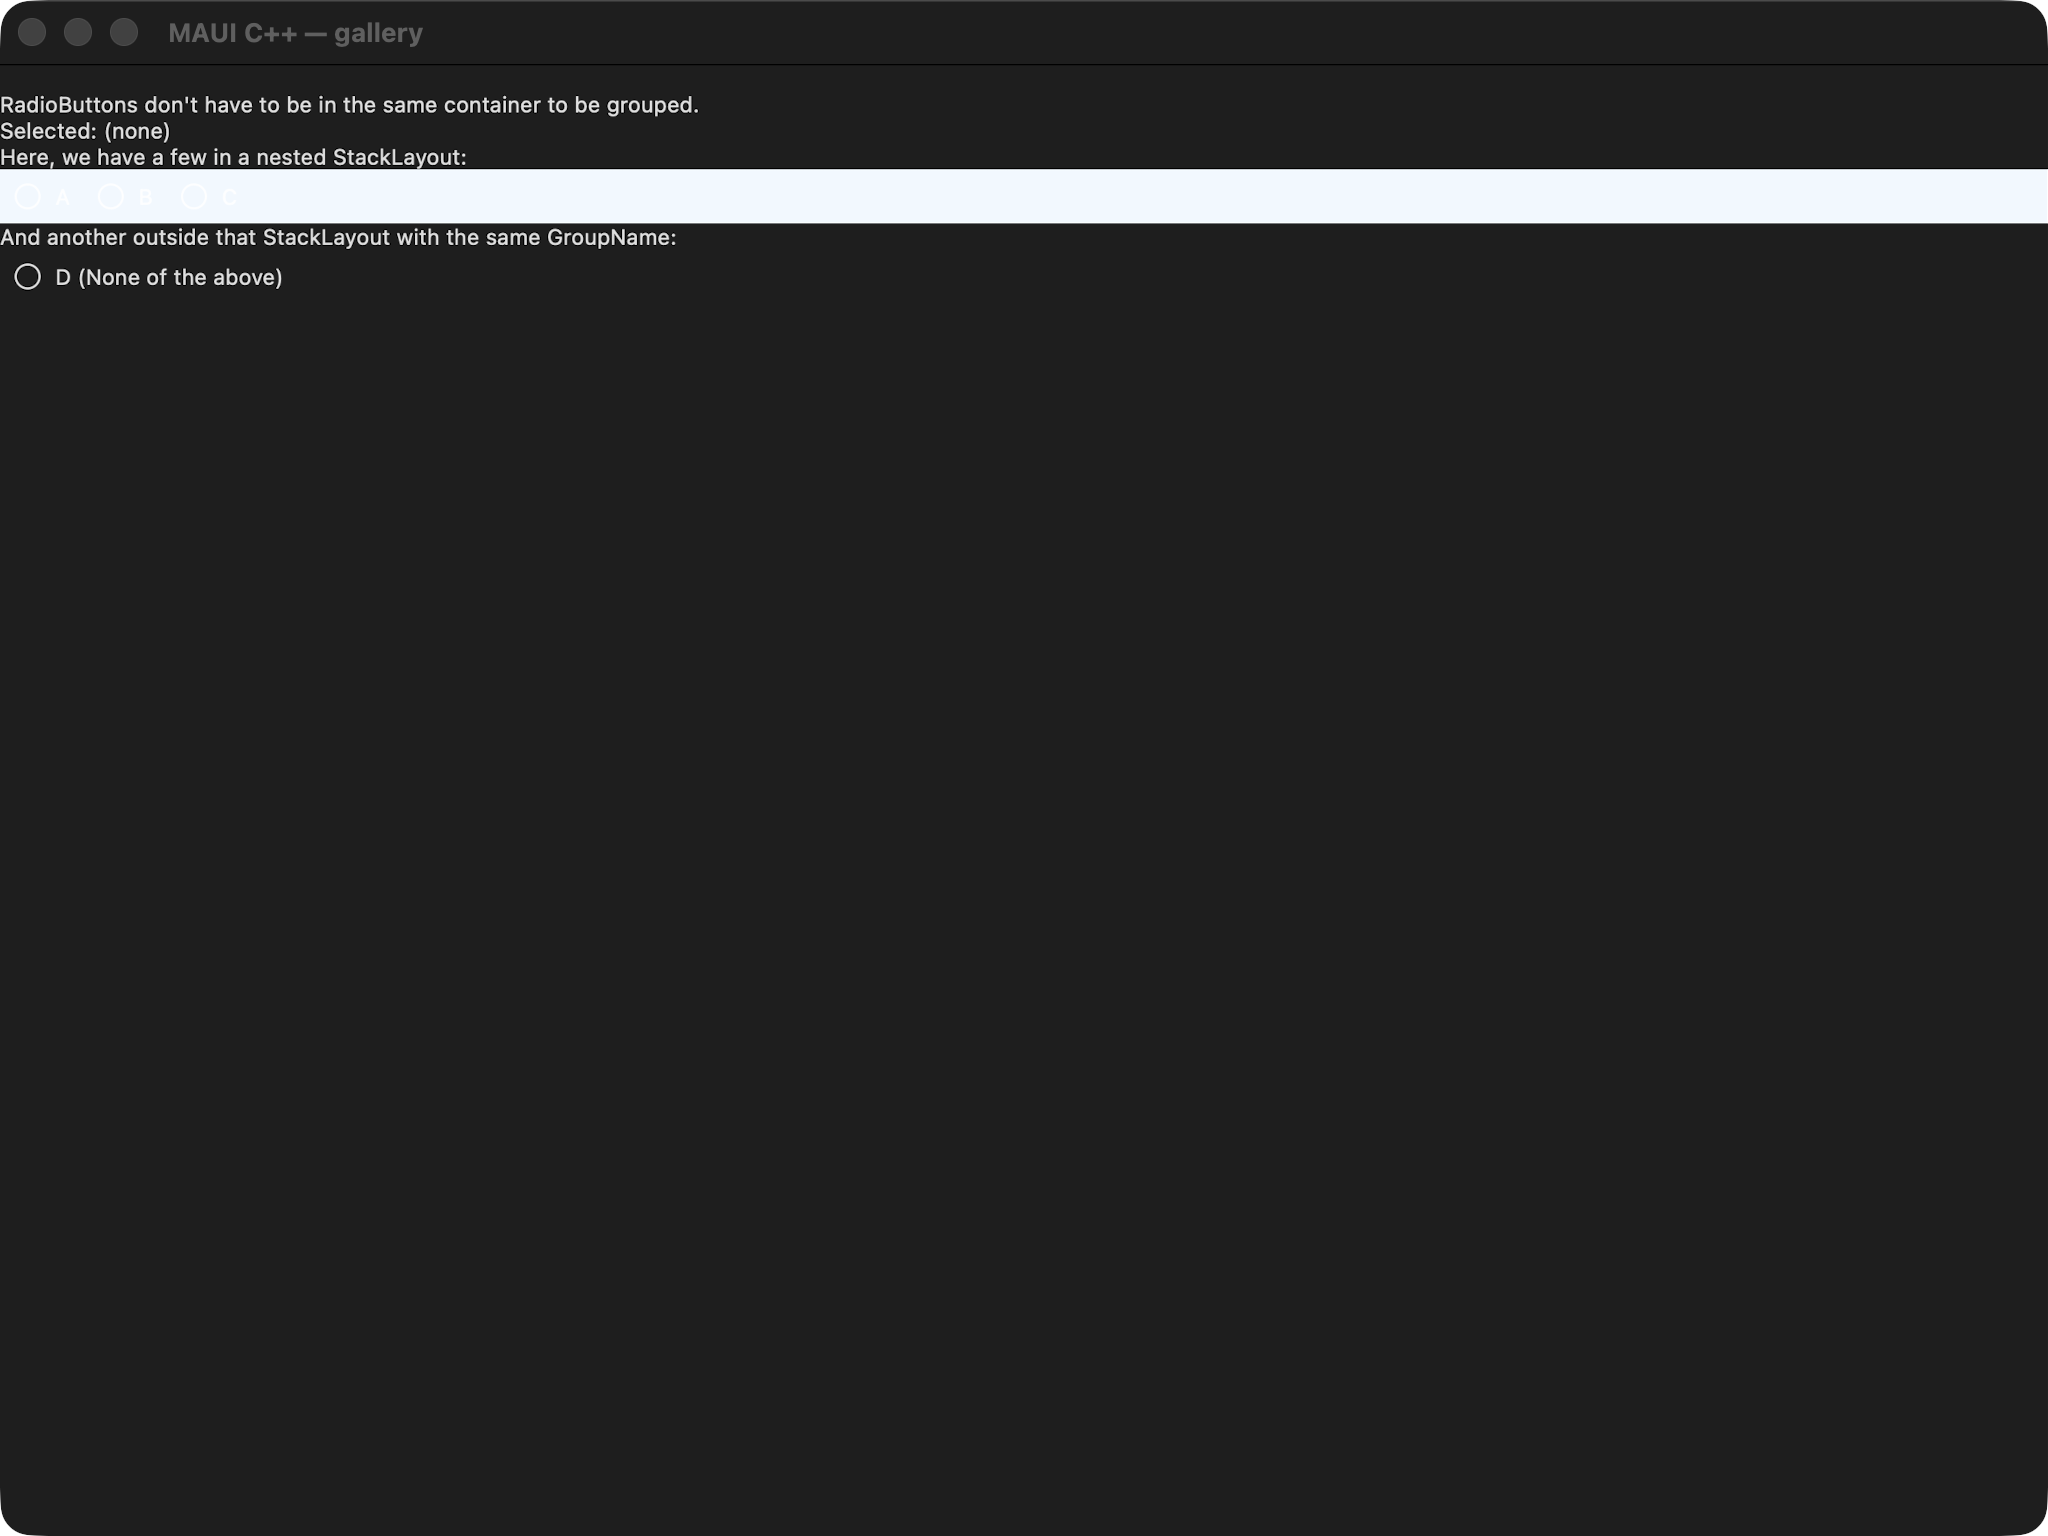
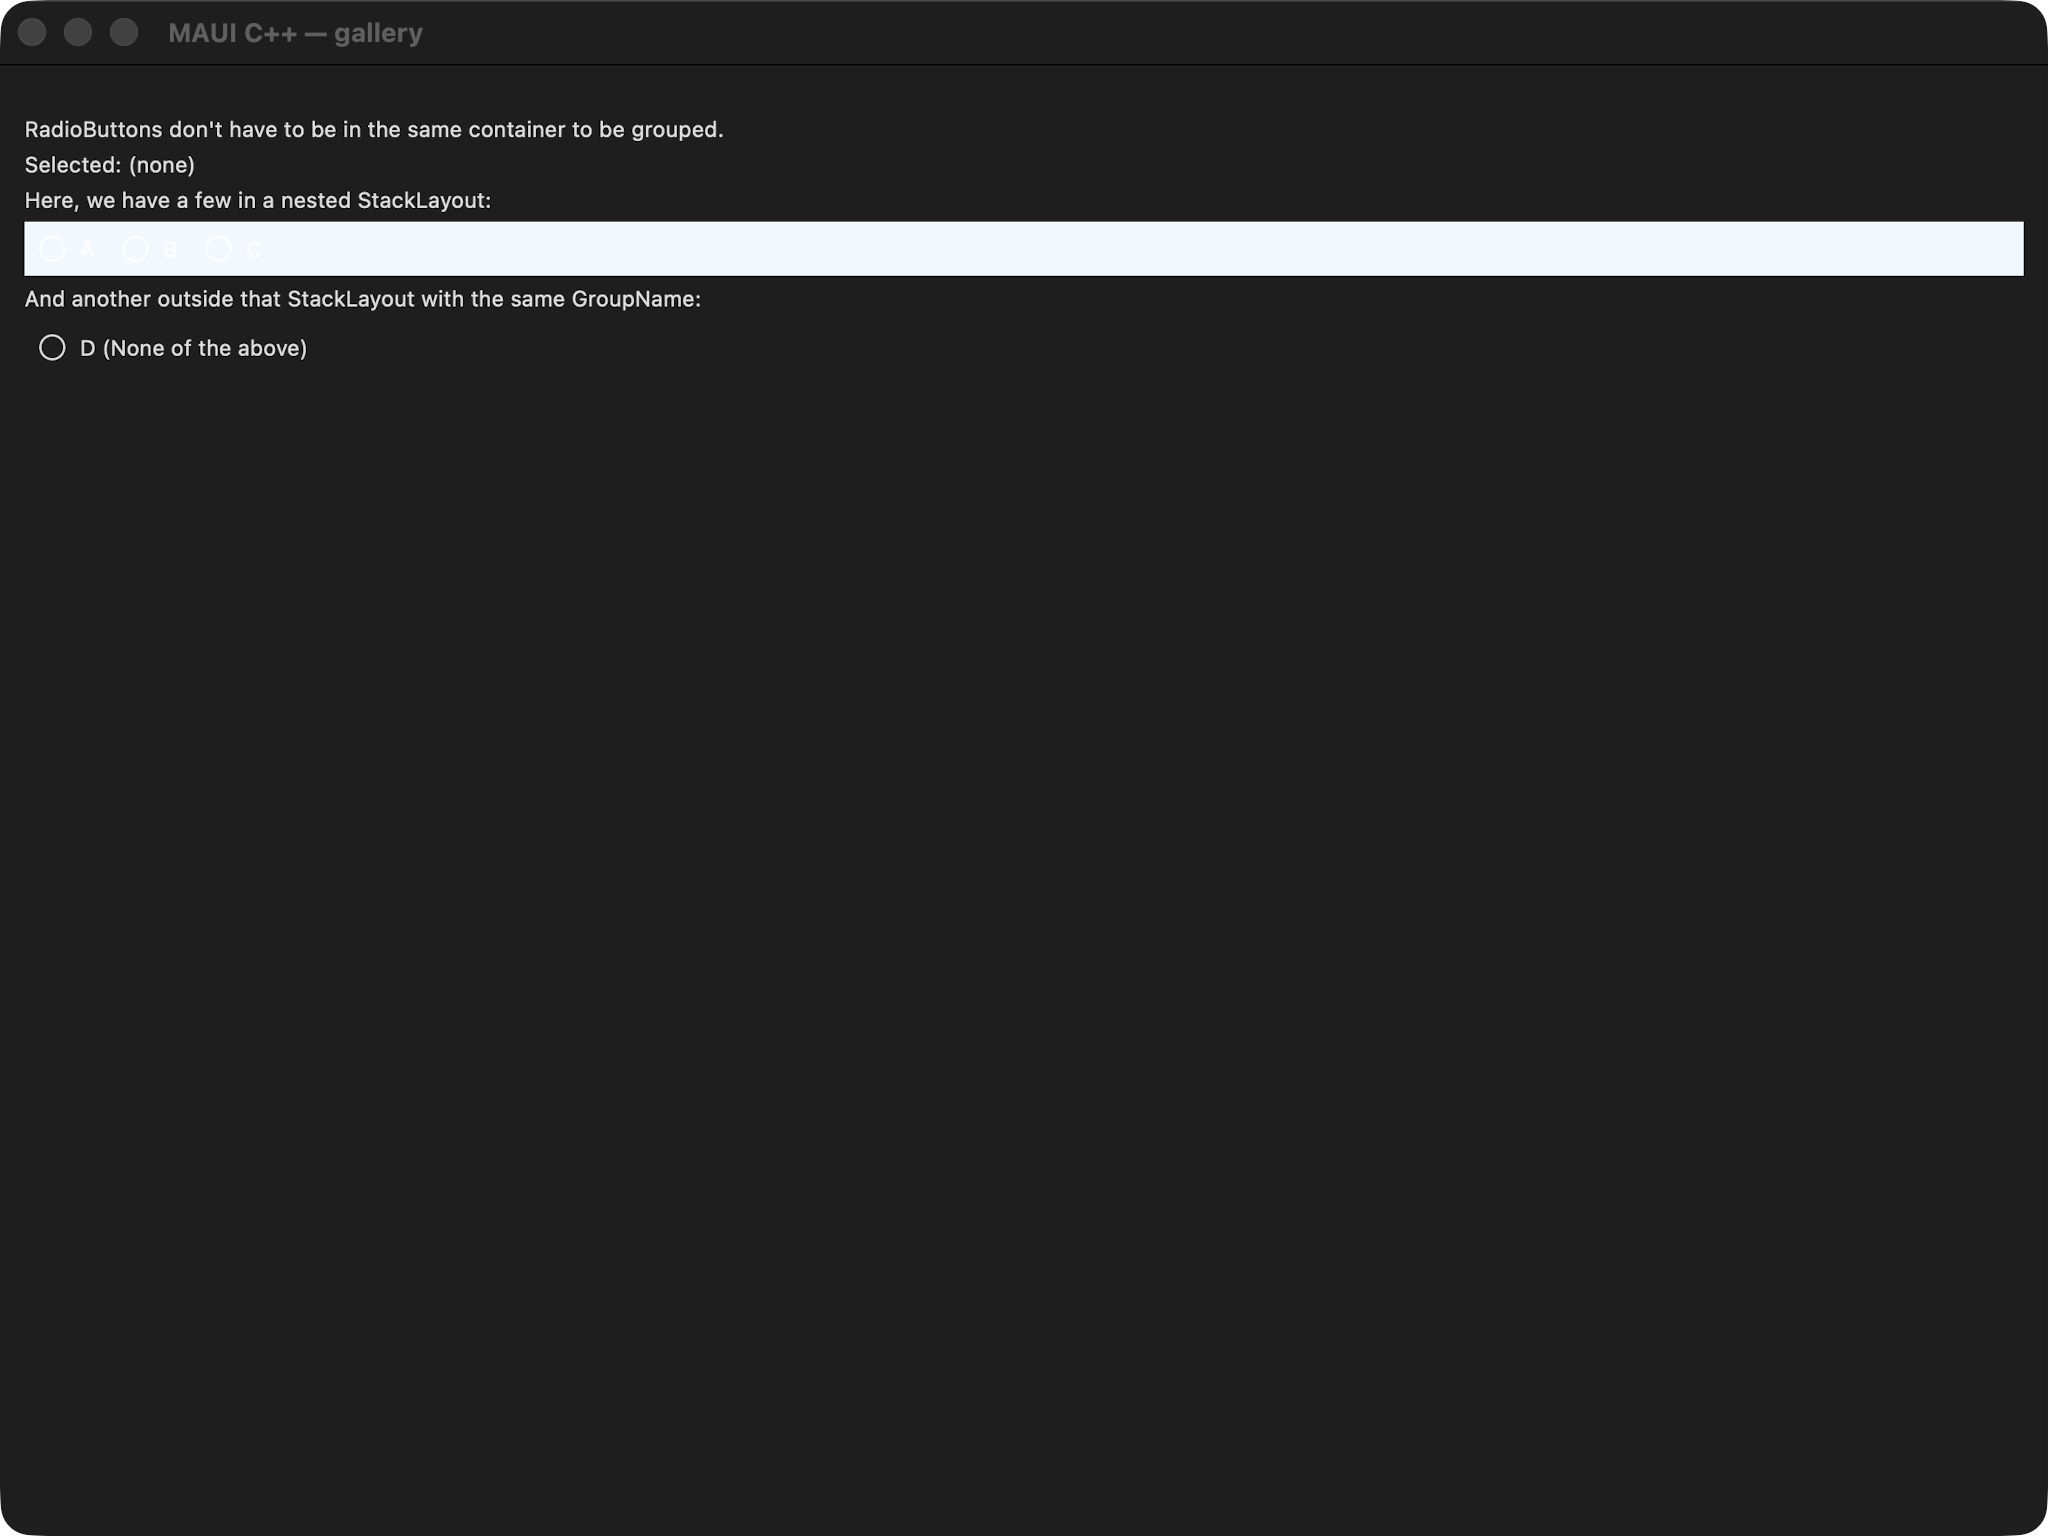
fix(scattered_radio_button): apply root StackLayout Padding=16 + Spacing=6 (maccatalyst)
The shared scattered_radio_button.xaml root StackLayout has Padding="16"
Spacing="6"; the builder omitted both, so the nested AliceBlue horizontal radio
strip bled EDGE-TO-EDGE (x=0..full) and stood out as a stray light bar in dark
mode. Add the padding+spacing so the strip hugs the padded content box, matching
MAUI + the xaml loader exactly (cpp-vs-xaml now 0.03%). cpp yellow->green;
residual ~4.7%% dark is the uniform harness vertical inset (ruling 2). maccatalyst
cpp 141->142.

Changed region(s): [[0.0, 0.0625, 1.0, 0.25]]

diff --git a/port/cpp/examples/gallery/pages/scattered_radio_button_page.hpp b/port/cpp/examples/gallery/pages/scattered_radio_button_page.hpp
@@ -44,6 +44,7 @@
 #include "maui/controls/radio_button_group.hpp"
 #include "maui/controls/stack_layout.hpp"
 #include "maui/controls/stack_orientation.hpp"
+#include "maui/core/thickness.hpp"
 #include "maui/graphics/colors.hpp"
 #include "maui/graphics/solid_paint.hpp"
 
@@ -55,6 +56,13 @@ namespace maui::samples
         scattered_radio_button_page()
         {
             page_.set_title("RadioButton Group (Across Multiple Containers)");
+
+            // The shared scattered_radio_button.xaml root StackLayout carries Padding="16" Spacing="6";
+            // the 16pt padding insets every child (crucially the nested AliceBlue horizontal stack, whose
+            // light background otherwise bleeds edge-to-edge and stands out in dark mode) so the bar hugs
+            // the padded content box exactly as MAUI + the xaml loader render it.
+            root_stack_.set_padding(maui::core::thickness{16});
+            root_stack_.set_spacing(6);
 
             intro_.set_text("RadioButtons don't have to be in the same container to be grouped.");
             nested_caption_.set_text("Here, we have a few in a nested StackLayout:");

diff --git a/port/cpp/docs/comparison/README.md b/port/cpp/docs/comparison/README.md
@@ -3687,8 +3687,8 @@ _Not yet computed — no automated pixel-diff score is recorded for this page ye
 
 | Classification | Sonnet 5 | Gemini |
 | --- | --- | --- |
-| 🟢 Match | 141 | 0 |
-| 🟡 Minor | 33 | 0 |
+| 🟢 Match | 142 | 0 |
+| 🟡 Minor | 32 | 0 |
 | 🔴 Major | 2 | 0 |
 | ⬛ Blank | 7 | 0 |
 | ⏳ Unreviewed | 12 | 195 |
@@ -6522,16 +6522,16 @@ _Not yet reviewed._
 
 _Not yet computed — no automated pixel-diff score is recorded for this page yet._
 
-### 152. Scattered Radio Button — 🟡/⏳
+### 152. Scattered Radio Button — 🟢/⏳
 <sub>scattered_radio_button</sub>
 
 <table><tr><th></th><th>MAUI</th><th>C++</th><th>C++ &amp; XAML</th><th>AppKit / C++</th><th>AppKit / C++ &amp; XAML</th></tr><tr><th>Light</th><td><img width="300px" src="../../../maui-reference/captures/maccatalyst/scattered_radio_button_light.png" /></td><td><img width="300px" src="captures/maccatalyst/cpp/scattered_radio_button_light.png" /></td><td><img width="300px" src="captures/maccatalyst/xaml/scattered_radio_button_light.png" /></td><td><img width="300px" src="captures/maccatalyst/appkit_cpp/scattered_radio_button_light.png" /></td><td><img width="300px" src="captures/maccatalyst/appkit_xaml/scattered_radio_button_light.png" /></td></tr><tr><th>Dark</th><td><img width="300px" src="../../../maui-reference/captures/maccatalyst/scattered_radio_button_dark.png" /></td><td><img width="300px" src="captures/maccatalyst/cpp/scattered_radio_button_dark.png" /></td><td><img width="300px" src="captures/maccatalyst/xaml/scattered_radio_button_dark.png" /></td><td><img width="300px" src="captures/maccatalyst/appkit_cpp/scattered_radio_button_dark.png" /></td><td><img width="300px" src="captures/maccatalyst/appkit_xaml/scattered_radio_button_dark.png" /></td></tr></table>
 
 ports ScatteredRadioButtonGallery.xaml A code-first demo that radio buttons DON&amp;#x27;T have to share a container to be grouped: grouping is by GroupName, so buttons scattered across separate containers (and one bare button outside any grouped co
 
-#### 🟡 Sonnet 5 Review
+#### 🟢 Sonnet 5 Review
 
-C1/C3: all content present (labels, A/B/C strip, D radio) and the dark-theme faint white-on-light strip artifact is reproduced identically; but the label block is vertically tighter than MAUI (line spacing between the three intro labels and around the strip is compressed) — minor spacing diff.
+C1/C3: adding the shared XAML's root StackLayout Padding=16 + Spacing=6 insets the nested AliceBlue horizontal radio strip so it hugs the padded content box (x matches MAUI+xaml exactly) instead of bleeding edge-to-edge in dark mode. cpp now renders identically to the xaml column (0.03% cpp-vs-xaml); residual ~4.7% dark is the uniform harness vertical inset (ruling 2, exempt) — the same the green xaml column carries.
 
 #### ⏳ Gemini Review
 
